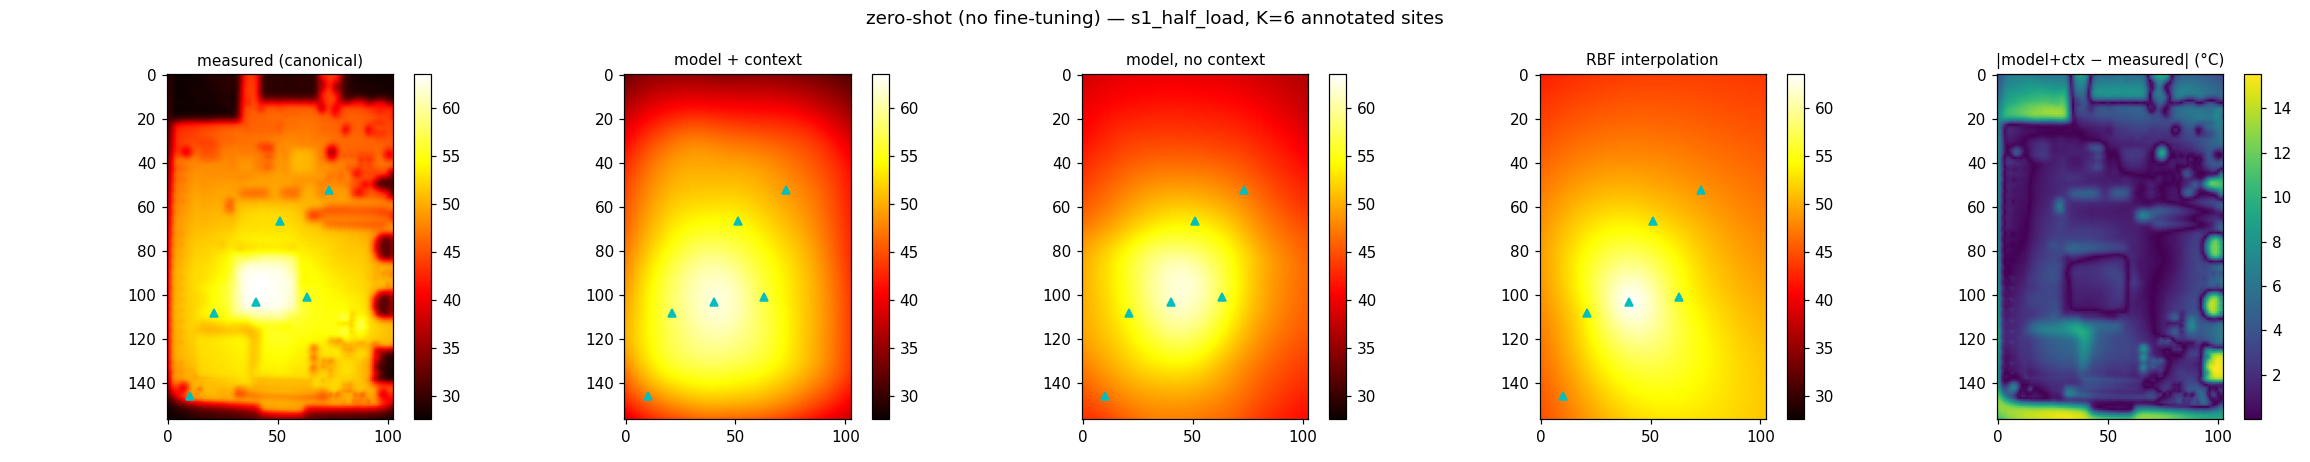
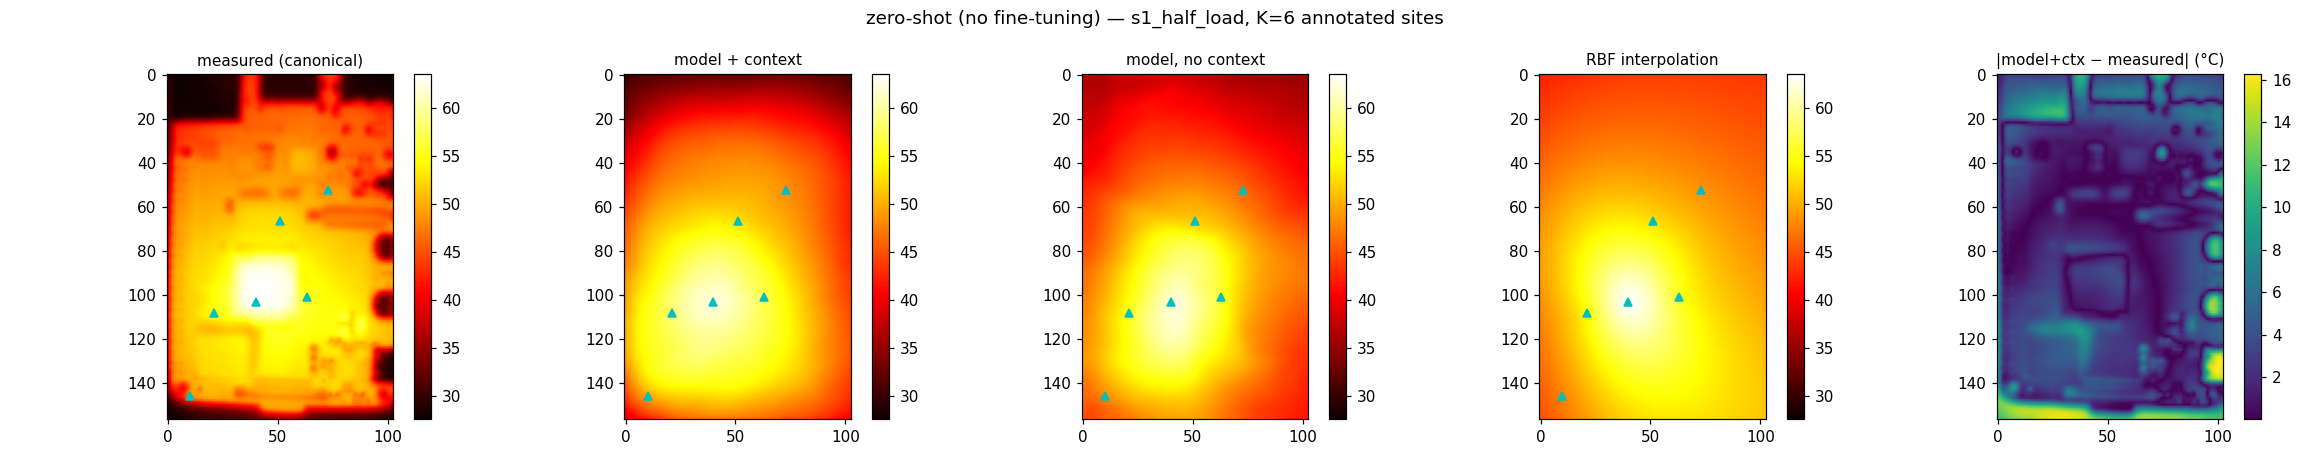
M8 ablation column: lambda=0 twin vs main on synthetic + real
- synthetic: tied in-distribution (K-curve +1..7% for PDE)
- real zero-shot: PDE better 3/4, hotspot robustness 4px vs 34px (no-ctx)
- real Tier-1: within test noise; patches favor PDE (1.57 vs 1.69 C)
- finding recorded: physics enters via the FDM data distribution + nondim
  contract; the residual term buys robustness in sensor-starved regimes
- run_finetune: --card-name to keep per-backbone board cards

diff --git a/scripts/run_finetune.py b/scripts/run_finetune.py
@@ -77,6 +77,8 @@ def main():
     ap = argparse.ArgumentParser(description=__doc__)
     ap.add_argument("--ckpt", type=Path, default=ROOT / "models" / "v2" / "pretrain_v2.pt")
     ap.add_argument("--steps", type=int, default=600)
+    ap.add_argument("--card-name", default="pi4b_s1",
+                    help="board-card file stem under models/boards/")
     args = ap.parse_args()
 
     model, ckpt = load_checkpoint(args.ckpt)
@@ -142,15 +144,15 @@ def main():
     fig.suptitle(f"M7 Tier-1: frozen backbone + {card.tokens.shape[1]} board tokens "
                  f"(λ={lam_best:g}, ĥ={hist['h_hat']:.2f})", fontsize=12)
     fig.tight_layout()
-    fig.savefig(QC / "finetune_tier1.png", dpi=110)
+    fig.savefig(QC / f"finetune_tier1_{args.card_name}.png", dpi=110)
 
-    card_path = ROOT / "models" / "boards" / "pi4b_s1.pt"
+    card_path = ROOT / "models" / "boards" / f"{args.card_name}.pt"
     card.save(card_path, meta={
         "created": datetime.now(timezone.utc).isoformat(timespec="seconds"),
         "checkpoint": args.ckpt.name, "lambda_pde": lam_best,
         "train_cases": [c.case_id for c in train_cases], "session": "s1",
     })
-    (ROOT / "models" / "boards" / "pi4b_s1_report.json").write_text(
+    (ROOT / "models" / "boards" / f"{args.card_name}_report.json").write_text(
         json.dumps(report, indent=2), encoding="utf-8")
     n_train = sum(p.numel() for p in card.parameters())
     print(f"\nboard card: {card_path.relative_to(ROOT)} "

diff --git a/docs/decisions.md b/docs/decisions.md
@@ -61,6 +61,18 @@ User: per-board calibration must stay light; effort on units that matter. Tape
 is lab-only instrumentation; count affects validation statistics only.
 → `m3_data_requirements.md` B1.
 
+**2026-07-11 — Physics-ablation finding (λ=0 twin, same seed/data): the PDE
+residual is not the load-bearing element; the physics enters via the data.**
+Synthetic in-distribution: tied (val 0.0773 vs 0.0768; K-curve +1–7% for PDE).
+Real zero-shot: PDE better in 3/4 settings, decisively in the sensor-starved
+regime (no-ctx hotspot 4 px vs 34 px). Real after Tier-1: within test noise
+(case02 3.08 vs 3.01 °C; patches favor PDE 1.57 vs 1.69 °C). Interpretation for
+the report: the pipeline's "physics-informed" content lives in the FDM-generated
+training distribution, the nondimensional contract, and measured parameter
+bounds — the residual term adds a robustness margin where information is
+scarce, not a headline accuracy gain. Stated plainly; the twin table is the
+evidence. → M8 ablation column, `models/boards/pi4b_s1_nopde_report.json`.
+
 **2026-07-11 — Fine-tuning = board-token adaptation, not full-weight training.**
 User challenged full fine-tuning; with v2.5 the board is an explicit input, so
 adaptation moves to representation space: freeze the 1.06M backbone, learn ~8
